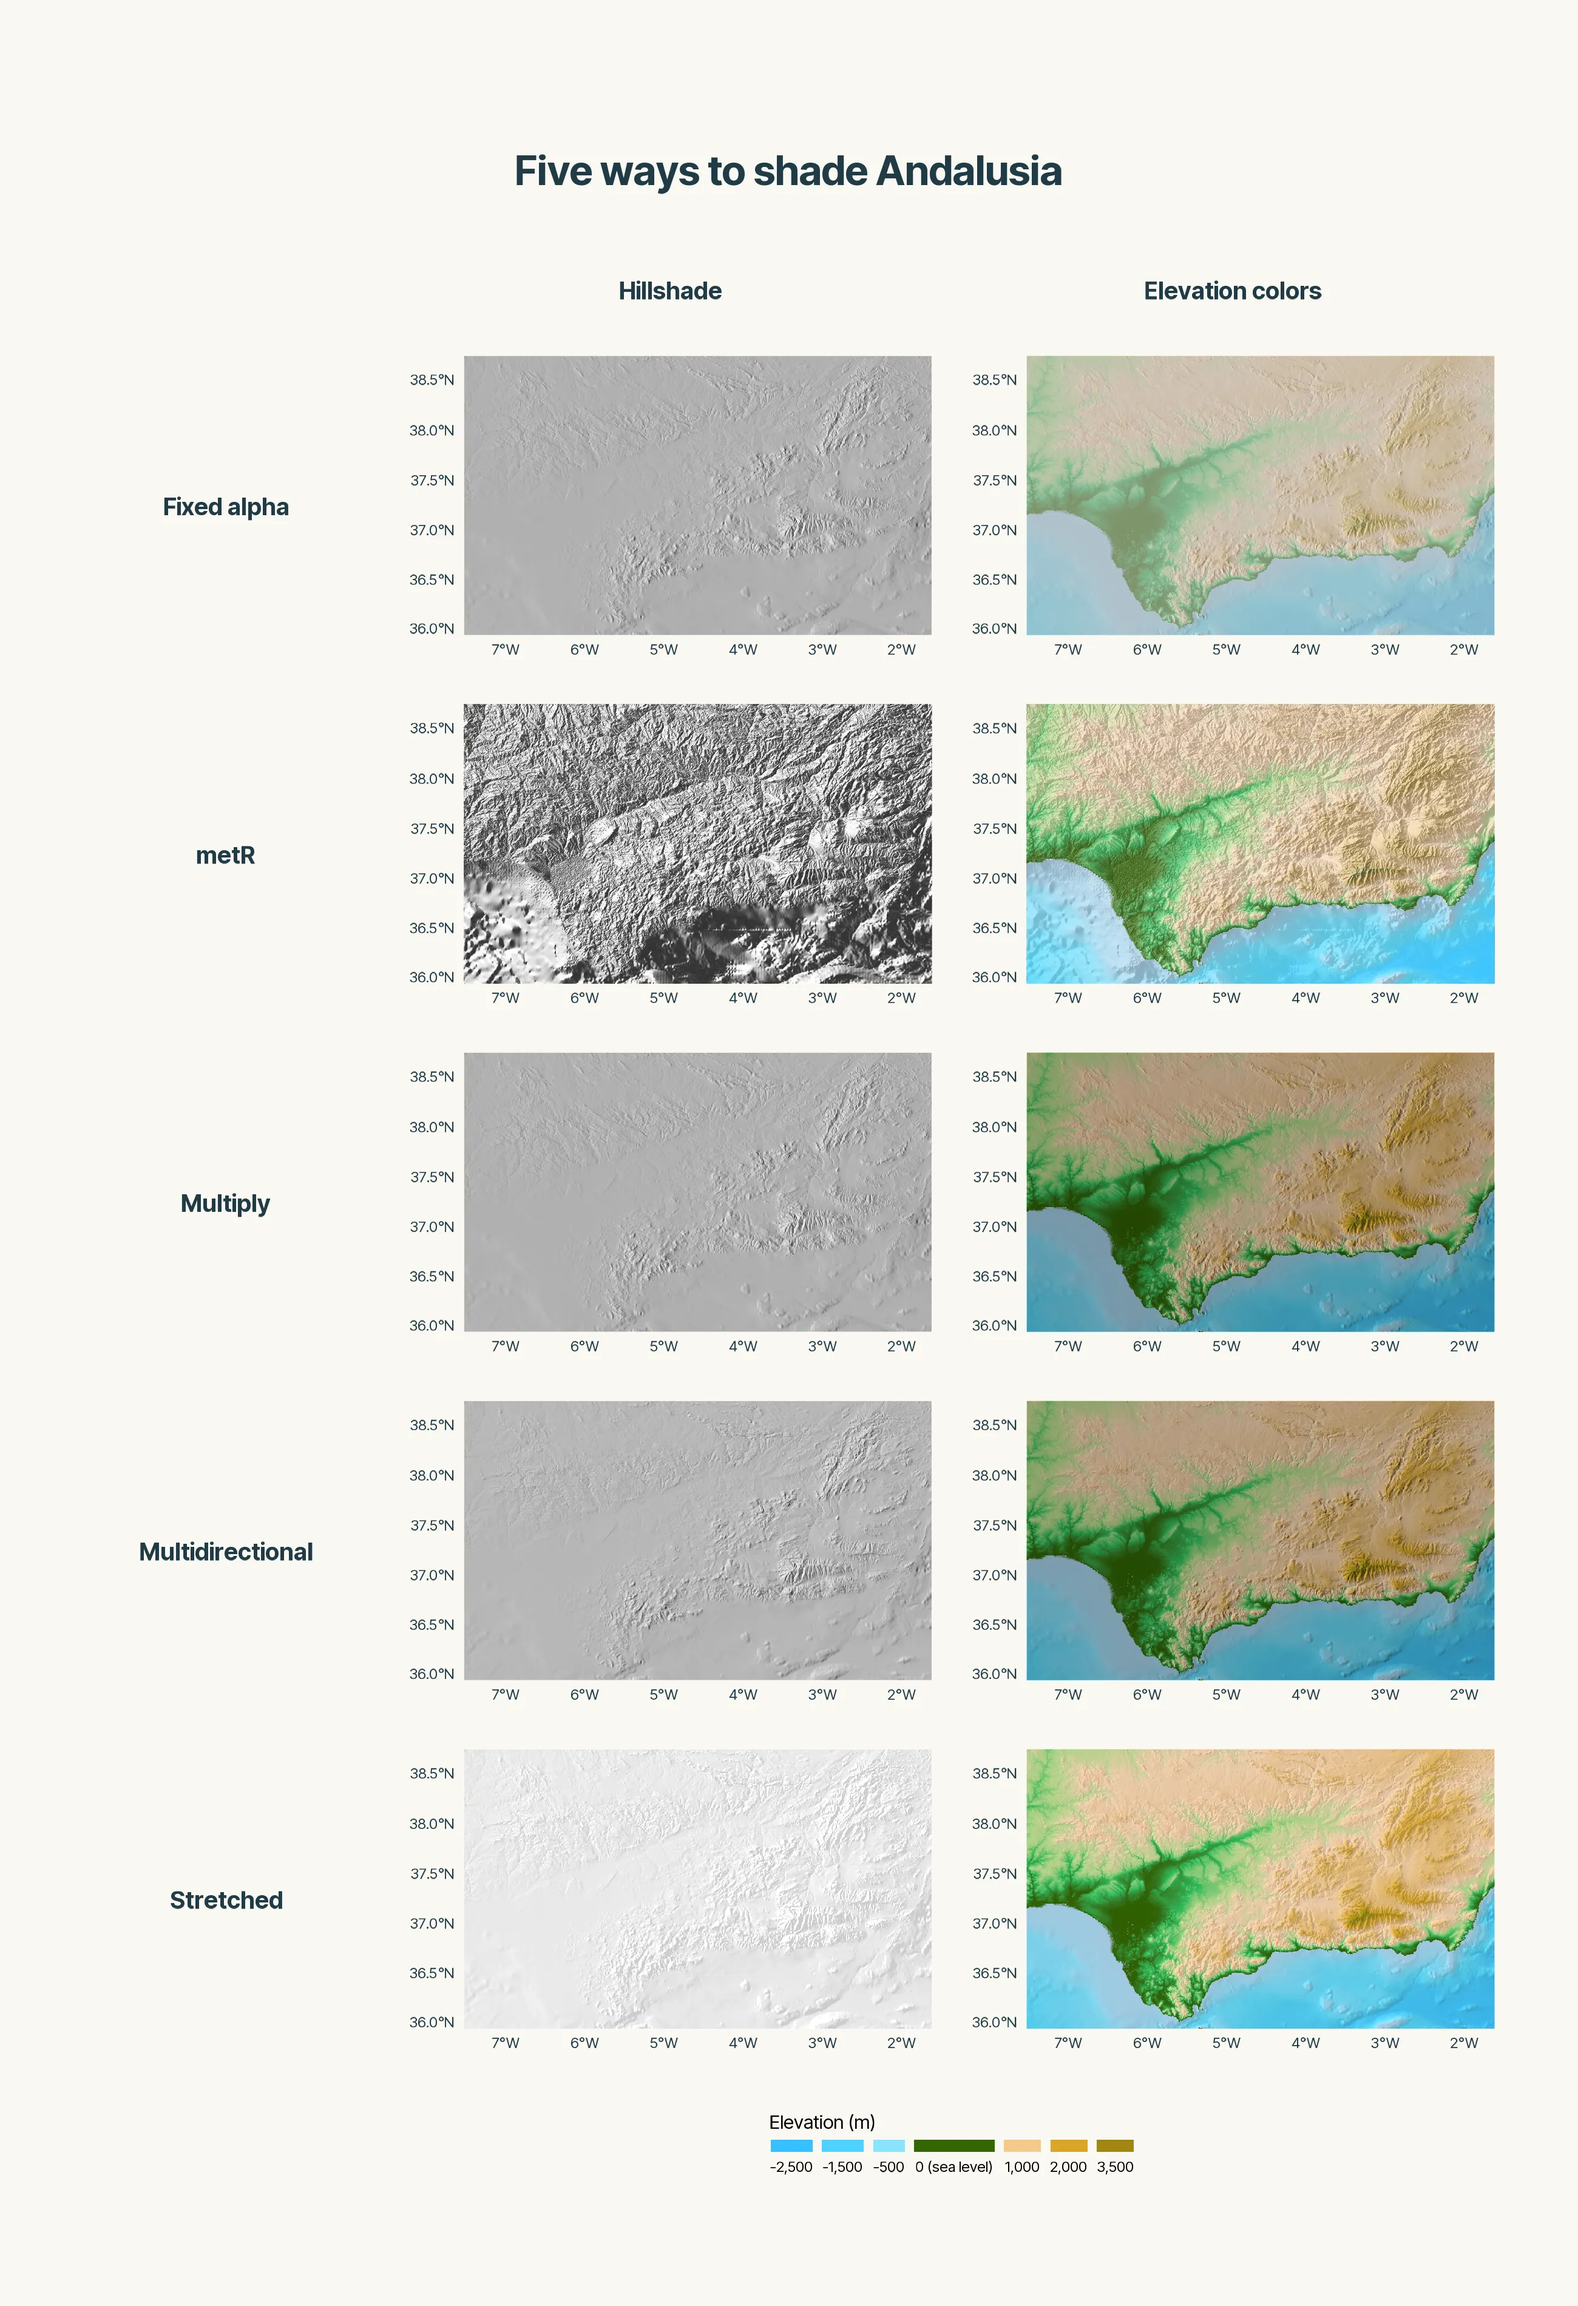
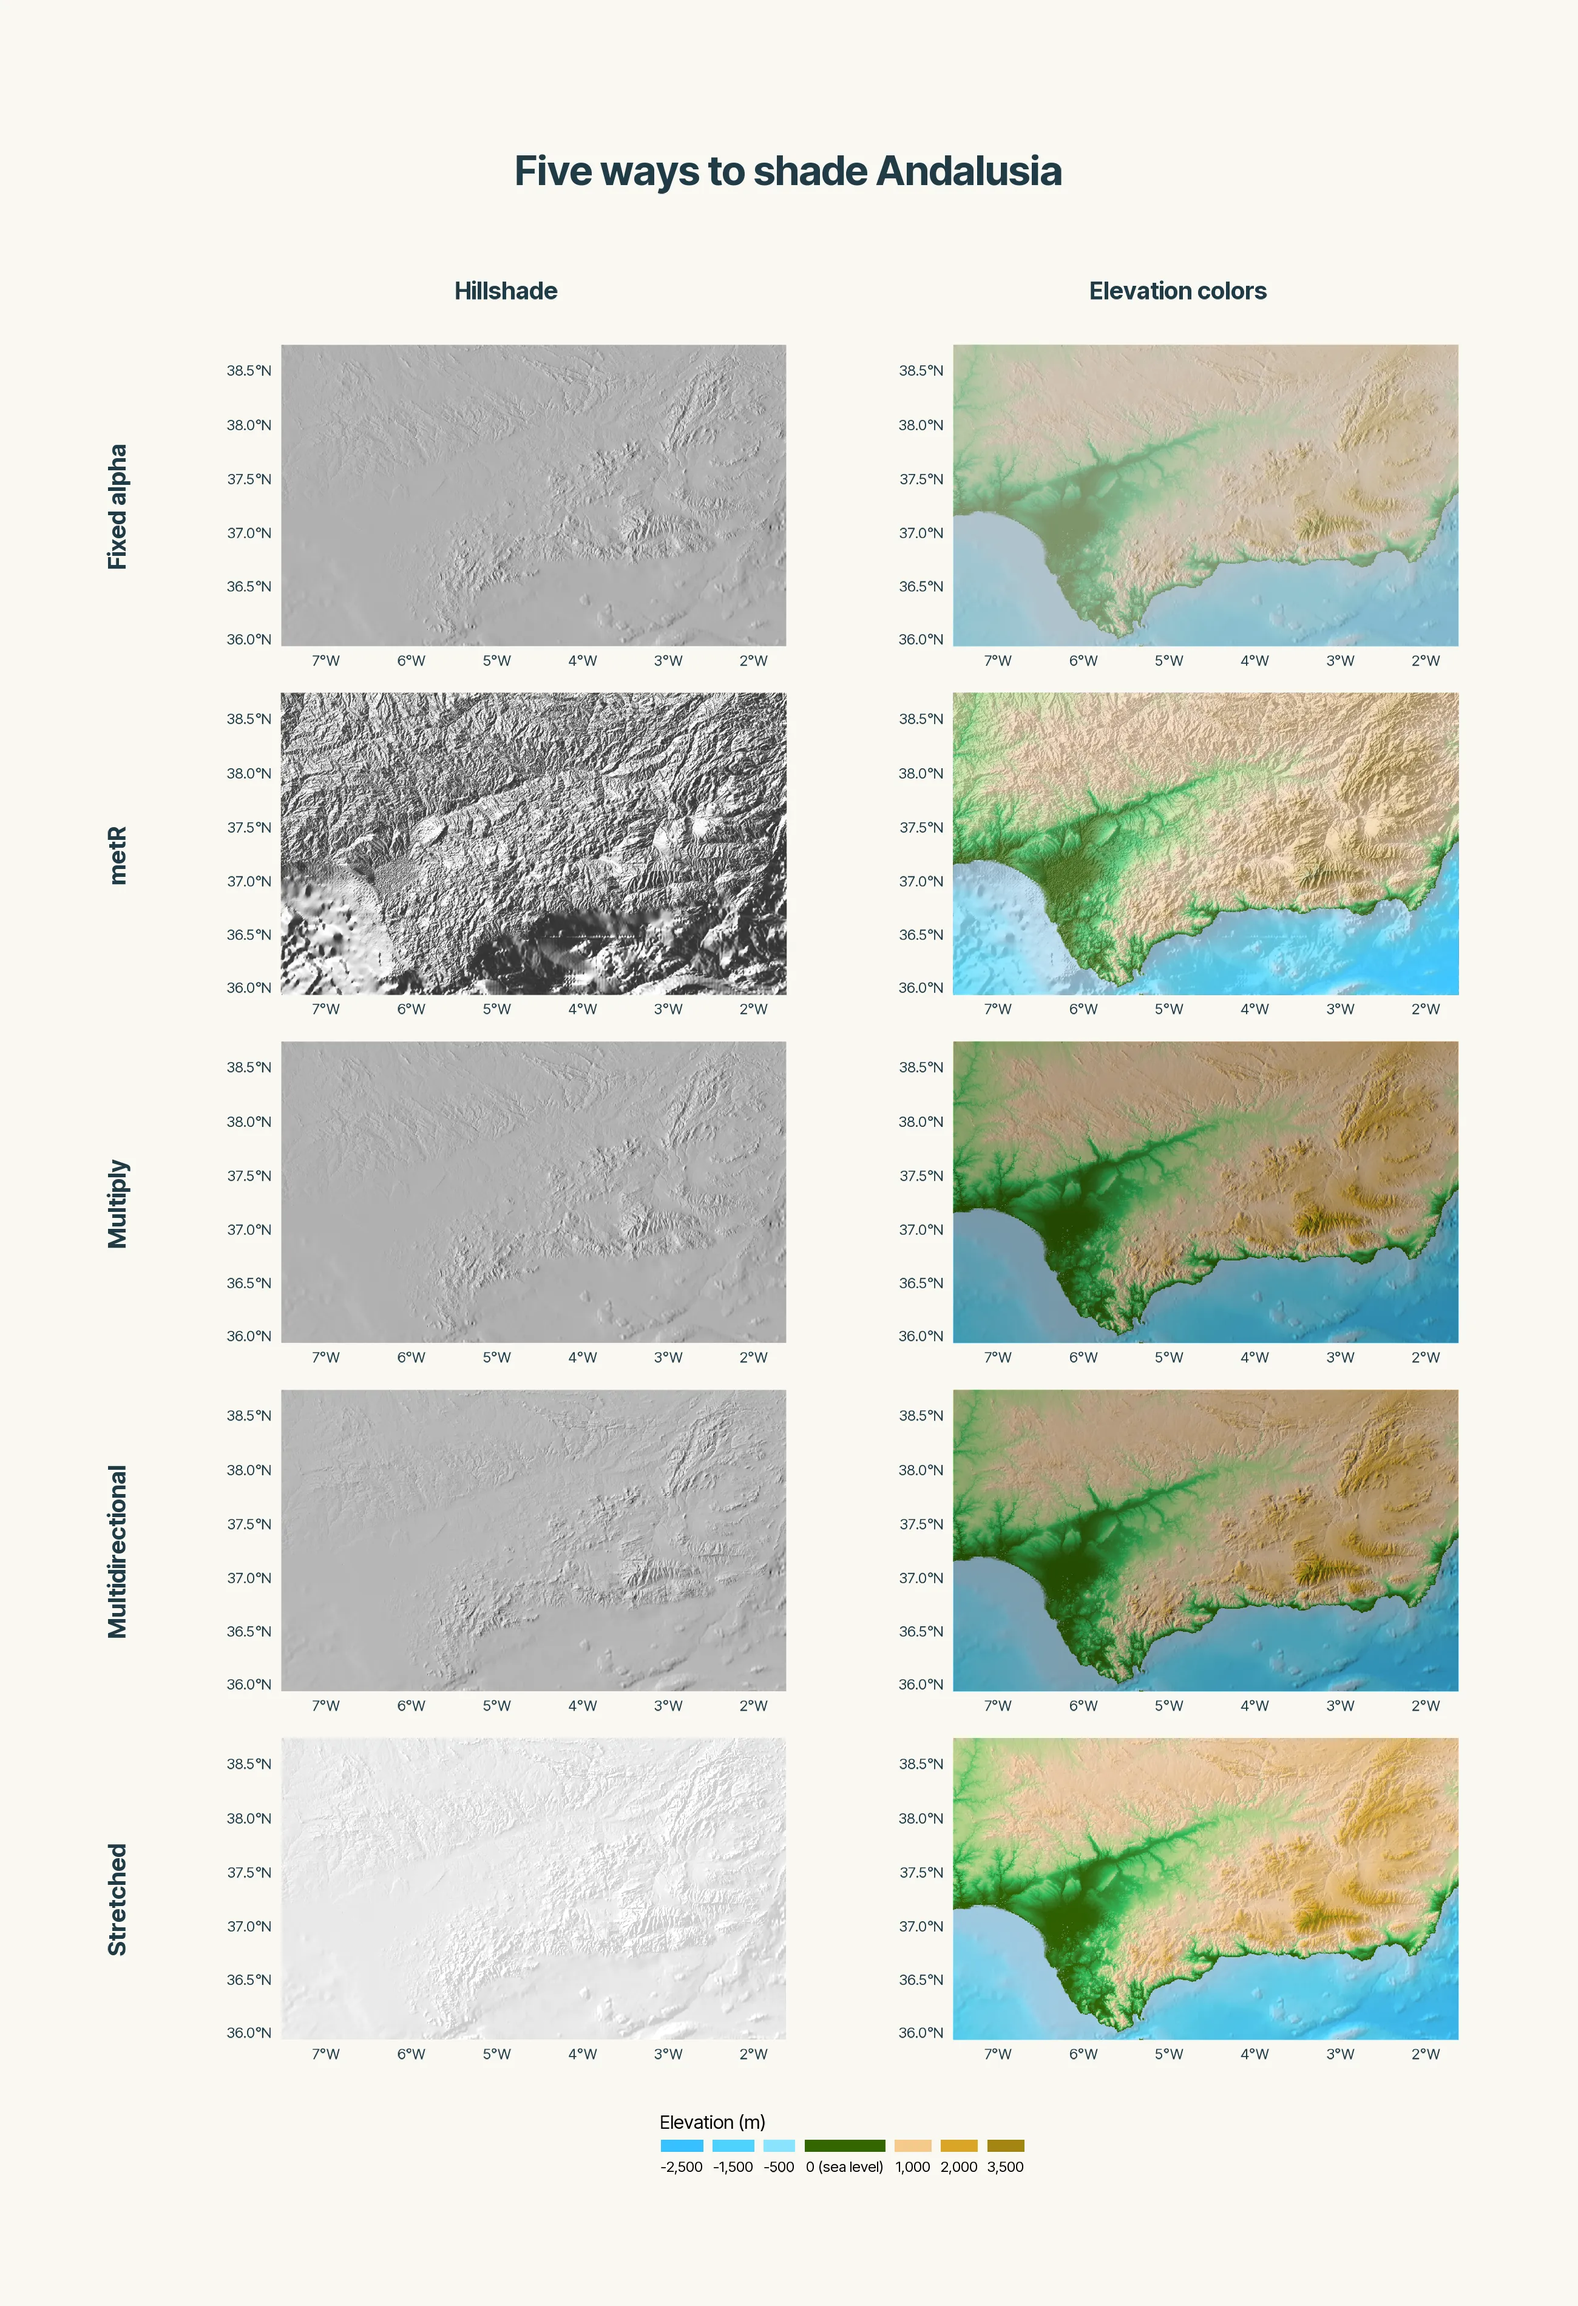
Add the **hillshading** tag and rotate poster labels

diff --git a/collections/_drafts/hillshading-guide.md b/collections/_drafts/hillshading-guide.md
@@ -20,6 +20,7 @@ tags:
   - rstats
   - rspatial
   - maps
+  - hillshading
   - ggplot2
   - tidyterra
   - terra
@@ -534,7 +535,7 @@ grid::pushViewport(grid::viewport(
   layout = grid::grid.layout(
     8,
     3,
-    widths = grid::unit(c(0.58, 1, 1), "null"),
+    widths = grid::unit(c(0.16, 1, 1), "null"),
     heights = grid::unit(c(0.45, 0.24, rep(1, 5), 0.4), "null")
   )
 ))
@@ -559,6 +560,7 @@ grid::grid.text(
 
 grid::grid.text(
   "Fixed alpha",
+  rot = 90,
   vp = grid::viewport(layout.pos.row = 3, layout.pos.col = 1),
   gp = heading_style
 )
@@ -567,6 +569,7 @@ print(map_alpha + poster_theme, vp = grid::viewport(layout.pos.row = 3, layout.p
 
 grid::grid.text(
   "metR",
+  rot = 90,
   vp = grid::viewport(layout.pos.row = 4, layout.pos.col = 1),
   gp = heading_style
 )
@@ -575,6 +578,7 @@ print(map_metr + poster_theme, vp = grid::viewport(layout.pos.row = 4, layout.po
 
 grid::grid.text(
   "Multiply",
+  rot = 90,
   vp = grid::viewport(layout.pos.row = 5, layout.pos.col = 1),
   gp = heading_style
 )
@@ -583,6 +587,7 @@ print(map_multiply + poster_theme, vp = grid::viewport(layout.pos.row = 5, layou
 
 grid::grid.text(
   "Multidirectional",
+  rot = 90,
   vp = grid::viewport(layout.pos.row = 6, layout.pos.col = 1),
   gp = heading_style
 )
@@ -591,6 +596,7 @@ print(map_multi + poster_theme, vp = grid::viewport(layout.pos.row = 6, layout.p
 
 grid::grid.text(
   "Stretched",
+  rot = 90,
   vp = grid::viewport(layout.pos.row = 7, layout.pos.col = 1),
   gp = heading_style
 )

diff --git a/collections/_posts/2022-10-17-tidyterra-hillshade.md b/collections/_posts/2022-10-17-tidyterra-hillshade.md
@@ -14,6 +14,7 @@ tags:
   - rstats
   - rspatial
   - maps
+  - hillshading
   - ggplot2
   - tidyterra
   - terra

diff --git a/collections/_posts/2022-12-12-tidyterra-hillshade-2.md b/collections/_posts/2022-12-12-tidyterra-hillshade-2.md
@@ -12,6 +12,7 @@ tags:
   - rstats
   - rspatial
   - maps
+  - hillshading
   - ggplot2
   - tidyterra
   - terra
